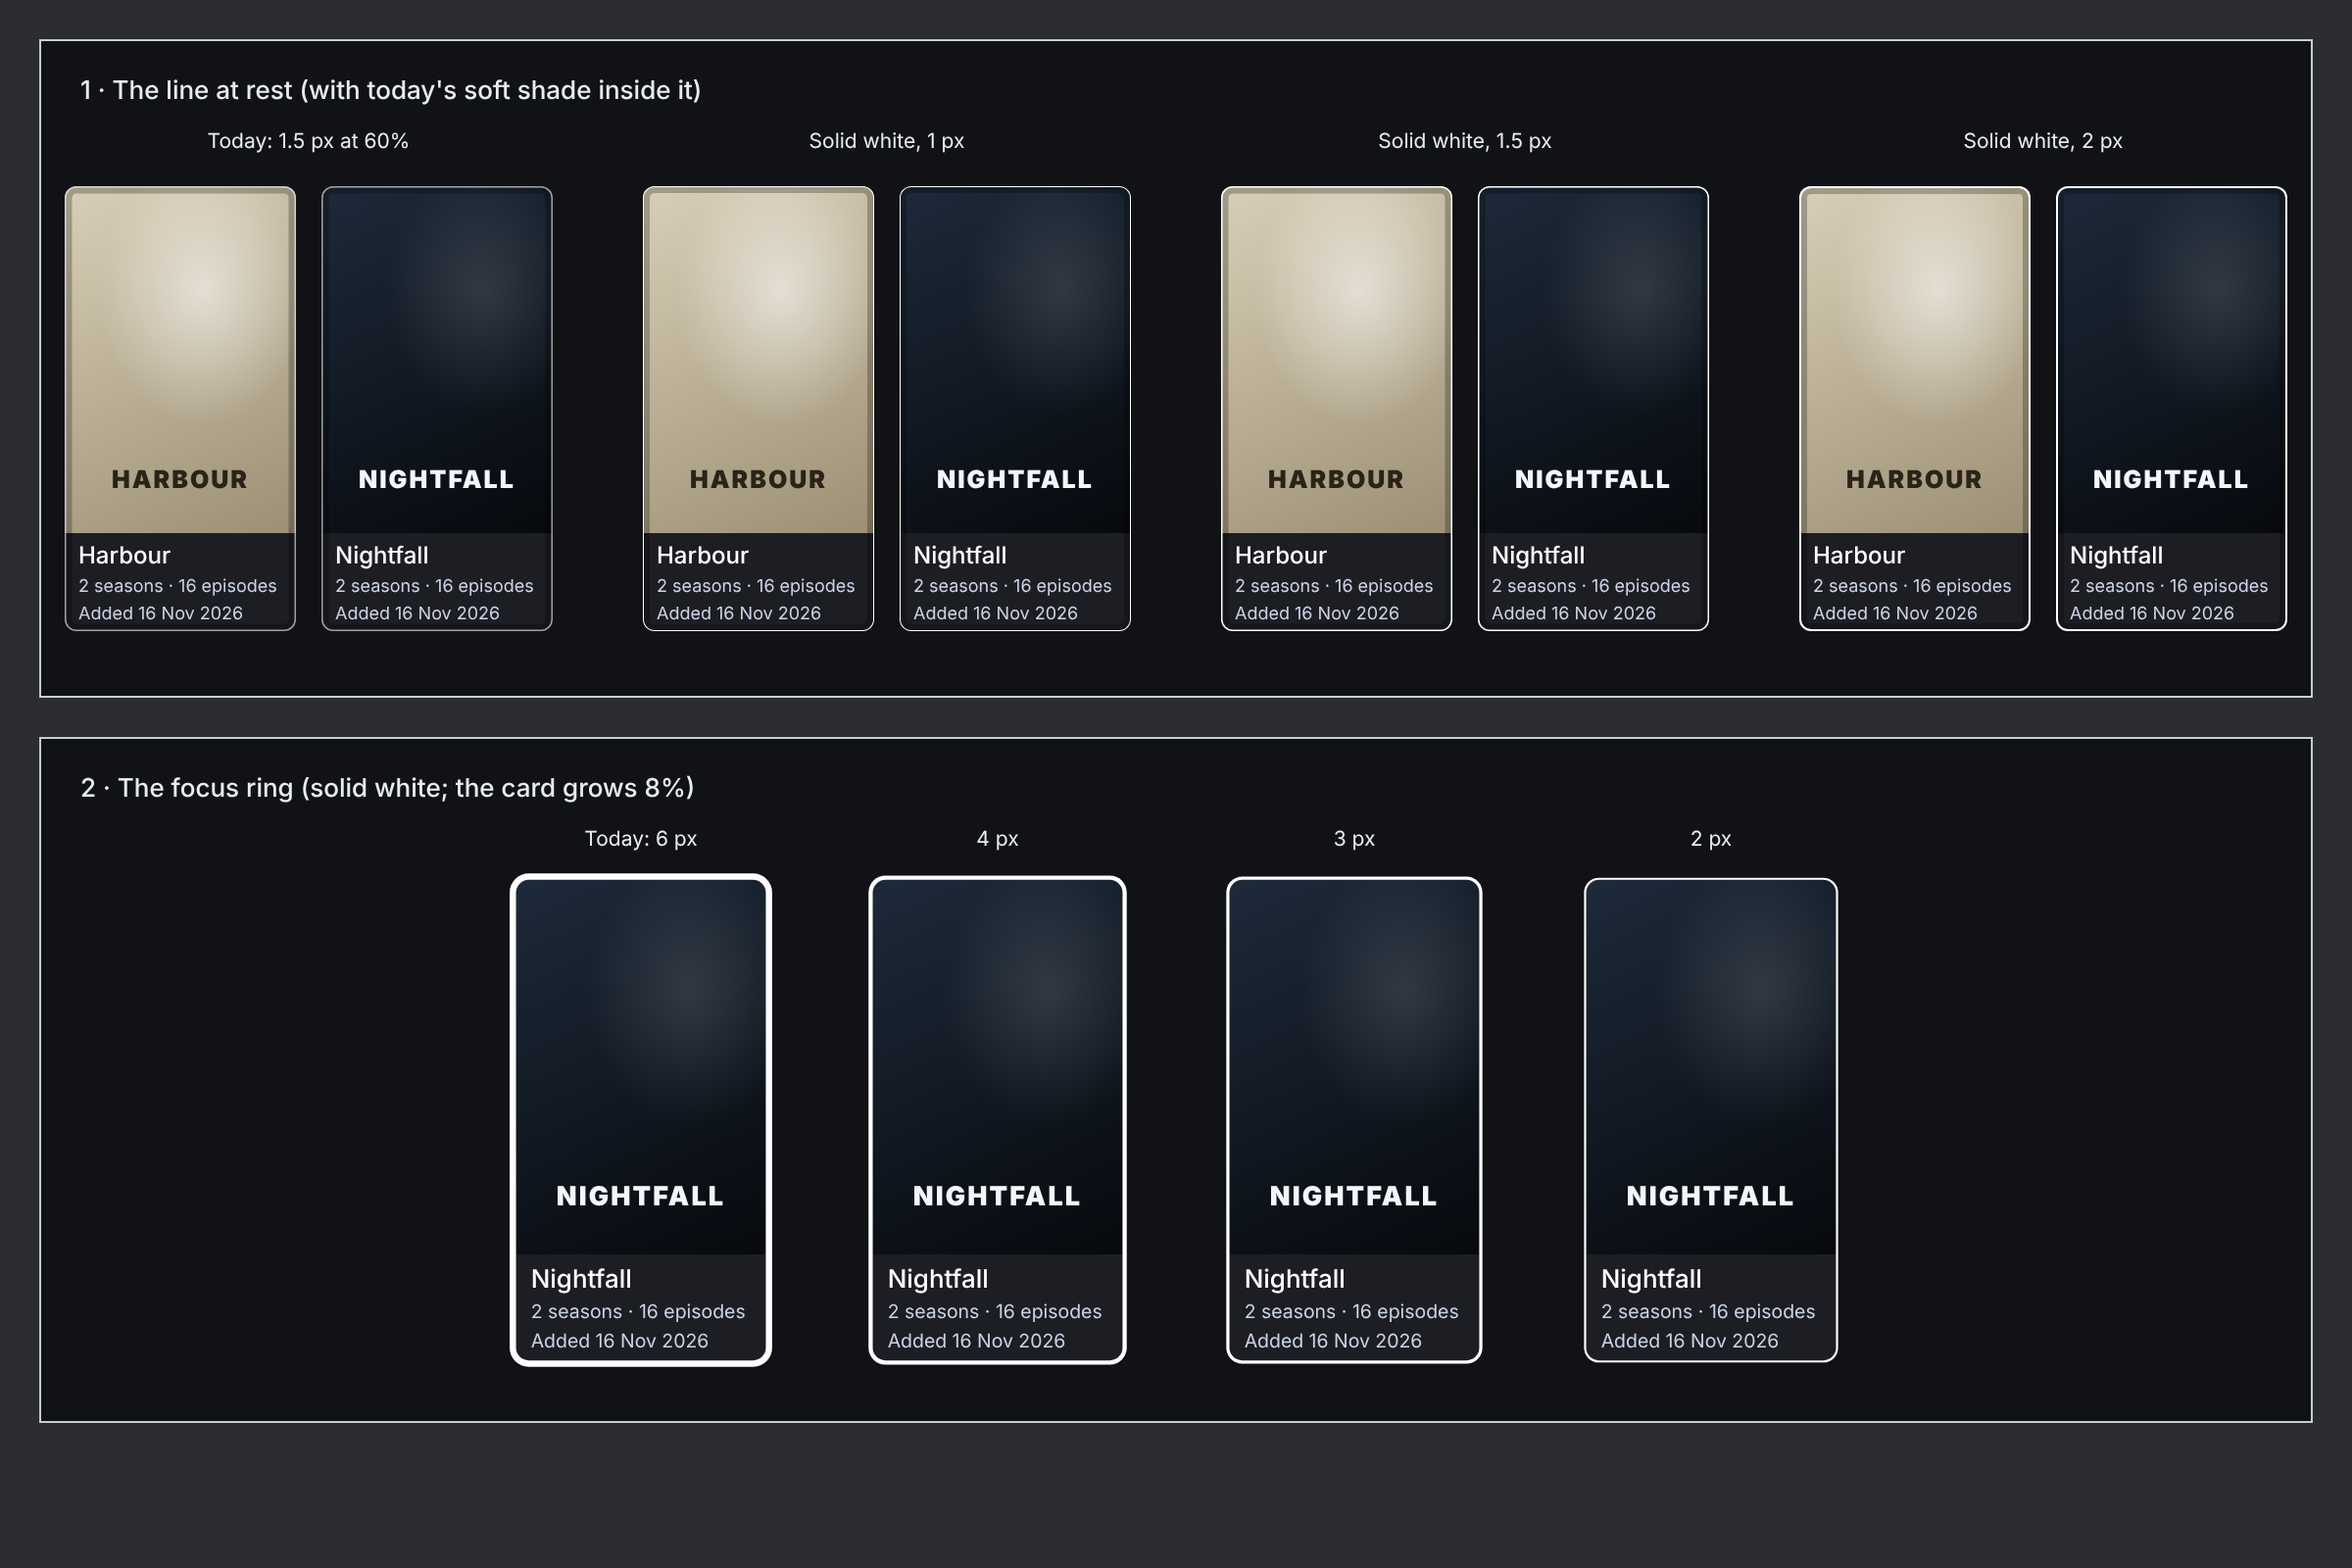
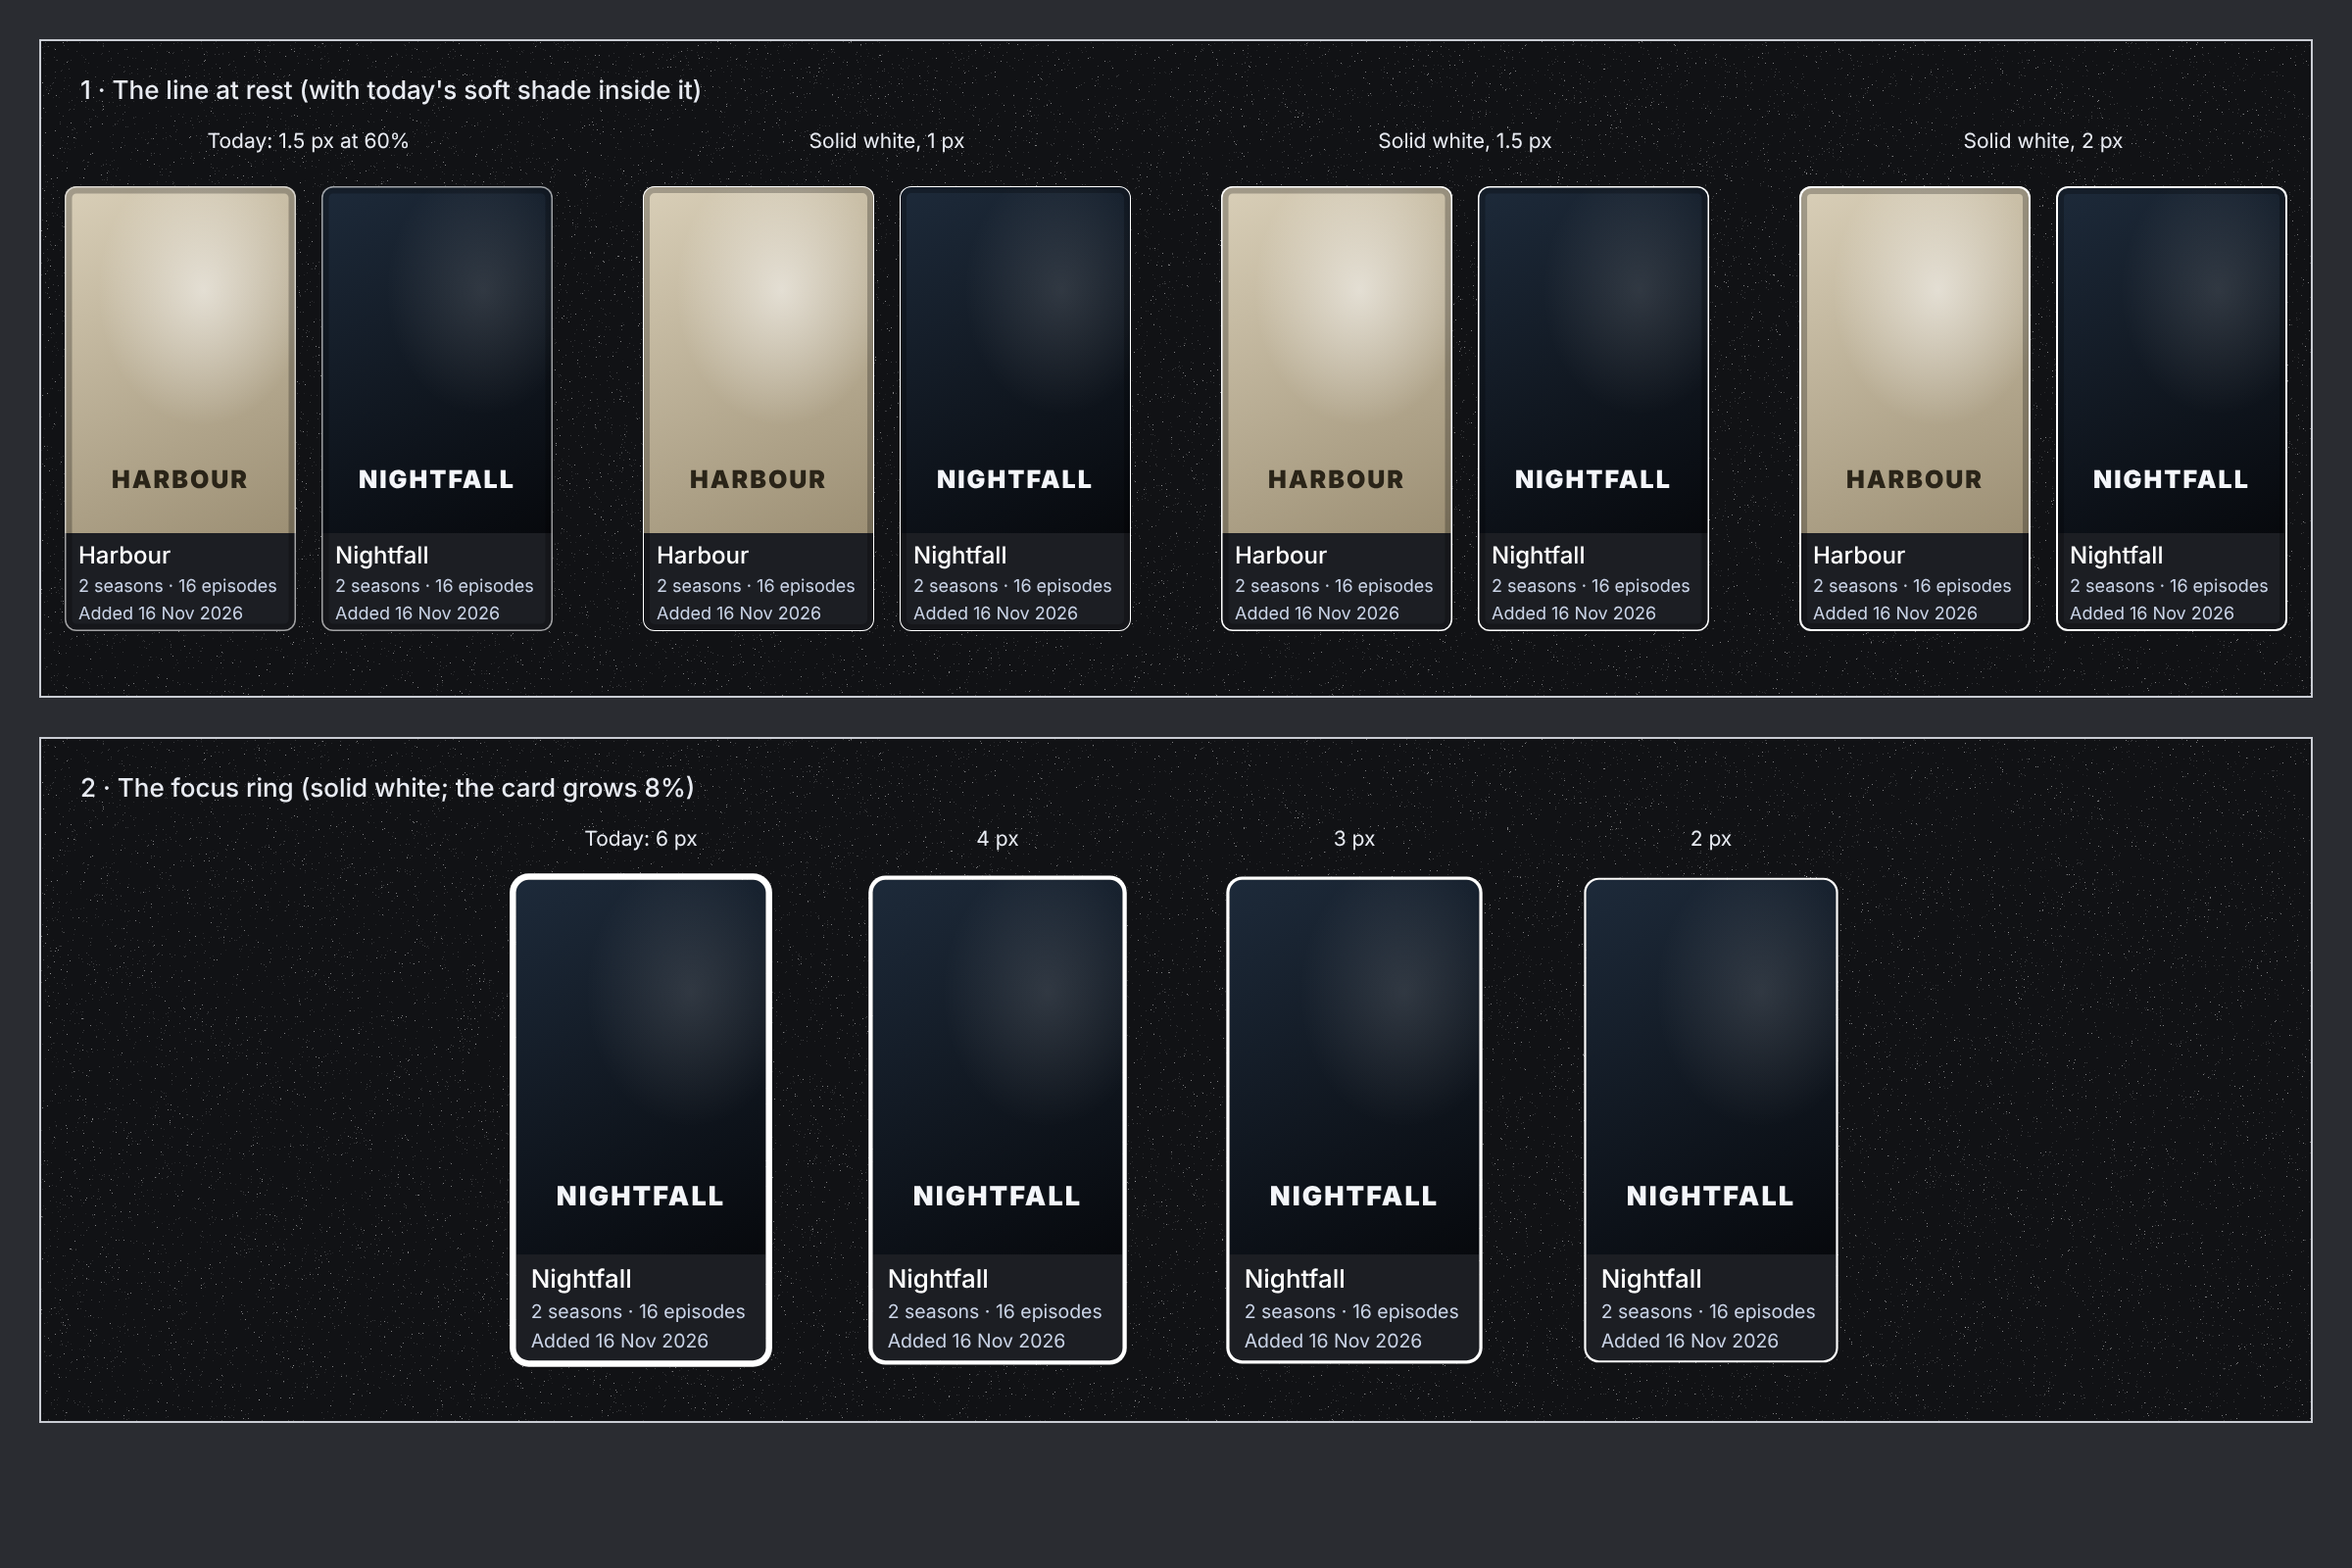
TV versions (1920 x 1080, on the speckle): line at rest and focus ring
Claude-Session: https://claude.ai/code/session_01FtDZqYQTGsHUL41wBkAMmc

diff --git a/docs/design/proposals/rows-captions/edges-tv.html b/docs/design/proposals/rows-captions/edges-tv.html
@@ -1,0 +1,38 @@
+<!doctype html><html><head><meta charset="utf-8">
+<style>
+*{box-sizing:border-box;margin:0;padding:0}
+body{background:#111215;font-family:Roboto,Inter,Arial,sans-serif;width:1920px}
+.screen{position:relative;width:1920px;height:1080px;overflow:hidden;background:#111215}
+.screen>canvas{position:absolute;left:0;top:0}
+.screen>.border{position:absolute;inset:0;border:2px solid #c9ccd3;pointer-events:none;z-index:5}
+.grid{position:absolute;inset:0;display:grid;grid-template-columns:repeat(2,auto);justify-content:center;align-content:center;column-gap:140px;row-gap:26px}
+.row4{position:absolute;inset:0;display:flex;justify-content:center;align-items:center;gap:90px}
+.group{display:flex;flex-direction:column;align-items:center}
+.lbl{color:#e8ebf2;font-size:24px;margin-bottom:12px;white-space:nowrap}
+.pair{display:flex;gap:26px}
+.poster{position:relative;width:236px;border-radius:12px;background:#1c1e23}
+.art{position:relative;height:354px;border-radius:12px 12px 0 0;overflow:hidden}
+.edge{position:absolute;inset:0;border-radius:12px;pointer-events:none}
+.logo{position:absolute;left:8px;right:8px;bottom:40px;text-align:center;font-size:25px;font-weight:900;letter-spacing:2px}
+.cap{height:100px;padding:9px 8px 0 14px}
+.t1{color:#fff;font-size:24px;font-weight:500;line-height:28px}
+.t2,.t3{color:#c9d3e6;font-size:18px;line-height:22px;margin-top:6px}
+</style></head><body>
+<div class="screen" id="s1"><div class="grid" id="g1"></div><div class="border"></div></div>
+<div class="screen" id="s2"><div class="row4" id="g2"></div><div class="border"></div></div>
+<script>
+const LIGHT="radial-gradient(ellipse 70% 60% at 60% 30%,rgba(255,255,255,.55),transparent 65%),linear-gradient(155deg,#d9cfb8,#9c8f74)";
+const DARK="radial-gradient(ellipse 70% 60% at 70% 30%,rgba(255,255,255,.12),transparent 60%),linear-gradient(155deg,#1d2a3a,#07090d)";
+function poster(art,name,ink,edgeCss,scale){
+ return `<div class="poster" style="${scale?'transform:scale(1.08)':''}"><div class="art" style="background:${art}"><div class="logo" style="color:${ink}">${name.toUpperCase()}</div></div>
+ <div class="cap"><div class="t1">${name}</div><div class="t2">2 seasons · 16 episodes</div><div class="t3">Added 16 Nov 2026</div></div>
+ <div class="edge" style="${edgeCss}"></div></div>`}
+function rest(w,a){return `box-shadow:inset 0 0 0 ${w}px rgba(255,255,255,${a}),inset 0 0 0 ${w+6}px rgba(0,0,0,.25)`}
+const rests=[["1 · Today: 1.5 px at 60%",1.5,.6],["2 · Solid white, 1 px",1,1],["3 · Solid white, 1.5 px",1.5,1],["4 · Solid white, 2 px",2,1]];
+const rings=[["1 · Today: 6 px",6],["2 · 4 px",4],["3 · 3 px",3],["4 · 2 px",2]];
+document.getElementById('g1').innerHTML=rests.map(([l,w,a])=>`<div class="group"><div class="lbl">${l}</div><div class="pair">${poster(LIGHT,"Harbour","#2a2418",rest(w,a))}${poster(DARK,"Nightfall","#f4f6fa",rest(w,a))}</div></div>`).join('');
+document.getElementById('g2').innerHTML=rings.map(([l,w])=>`<div class="group"><div class="lbl" style="margin-bottom:34px">${l}</div>${poster(DARK,"Nightfall","#f4f6fa",`box-shadow:0 0 0 ${w}px #fff`,true)}</div>`).join('');
+function rng(seed){return()=>{seed|=0;seed=seed+0x6D2B79F5|0;let t=Math.imul(seed^seed>>>15,1|seed);t=t+Math.imul(t^t>>>7,61|t)^t;return((t^t>>>14)>>>0)/4294967296}}
+document.querySelectorAll('.screen').forEach(sc=>{const cv=document.createElement('canvas');cv.width=1920;cv.height=1080;sc.prepend(cv);
+ const g=cv.getContext('2d'),r=rng(20261118),n=1920*1080*20/1000;for(let i=0;i<n;i++){const x=r()*1920|0,y=r()*1080|0,a=r()<1/7?.45:.07+r()*.15;g.fillStyle=`rgba(255,255,255,${a})`;g.fillRect(x,y,1,1)}});
+</script></body></html>

diff --git a/docs/design/proposals/rows-captions/edges.html b/docs/design/proposals/rows-captions/edges.html
@@ -2,7 +2,9 @@
 <style>
 *{box-sizing:border-box;margin:0;padding:0}
 body{background:#2a2c31;font-family:Roboto,Inter,Arial,sans-serif;width:2400px;padding:40px}
-.frame{border:2px solid #c9ccd3;background:#111215;padding:34px 40px 50px;margin-bottom:40px}
+.frame{position:relative;border:2px solid #c9ccd3;background:#111215;padding:34px 40px 50px;margin-bottom:40px;overflow:hidden}
+.frame>canvas{position:absolute;left:0;top:0;z-index:0}
+.frame>*:not(canvas){position:relative;z-index:1}
 .title{color:#e8ebf2;font-size:26px;font-weight:500;margin-bottom:24px}
 .row{display:flex;gap:60px;justify-content:center;align-items:flex-start}
 .group{display:flex;flex-direction:column;align-items:center}
@@ -33,4 +35,7 @@ h+=`</div></div><div class="frame"><div class="title">2 · The focus ring (solid
 rings.forEach(([l,w])=>{h+=`<div class="group"><div class="lbl">${l}</div><div class="pair" style="padding:30px 24px">${poster(DARK,"Nightfall","#f4f6fa",`box-shadow:0 0 0 ${w}px #fff`,true)}</div></div>`});
 h+=`</div></div>`;
 document.getElementById('f').innerHTML=h;
+function rng(seed){return()=>{seed|=0;seed=seed+0x6D2B79F5|0;let t=Math.imul(seed^seed>>>15,1|seed);t=t+Math.imul(t^t>>>7,61|t)^t;return((t^t>>>14)>>>0)/4294967296}}
+document.querySelectorAll('.frame').forEach(fr=>{const w=fr.clientWidth,hh=fr.clientHeight;const cv=document.createElement('canvas');cv.width=w;cv.height=hh;fr.prepend(cv);
+ const g=cv.getContext('2d'),r=rng(20261118),n=w*hh*20/1000;for(let i=0;i<n;i++){const x=r()*w|0,y=r()*hh|0,a=r()<1/7?.45:.07+r()*.15;g.fillStyle=`rgba(255,255,255,${a})`;g.fillRect(x,y,1,1)}});
 </script></body></html>
